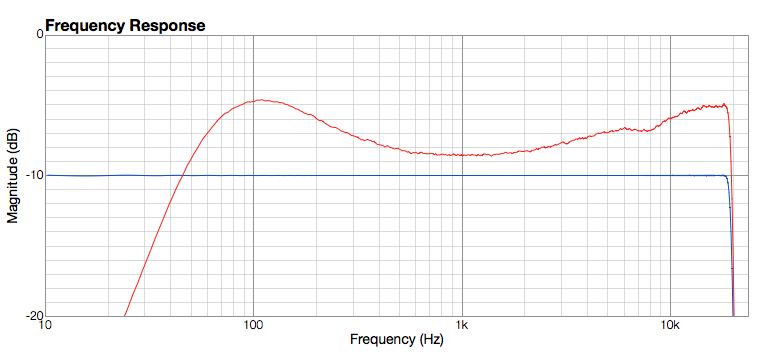
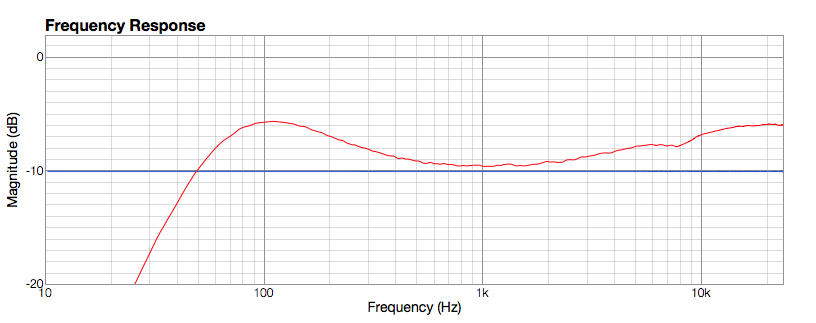
UF95 news, music 의 스펙이 변경되었습니다.

Changed region(s): [[0.0, 0.031, 0.9834, 0.9288], [0.4302, 0.9288, 0.5839, 0.9907], [0.6453, 0.5882, 0.6761, 0.6192]]

diff --git a/WebOS/UF95/2_Sound_Mode/2_Music/Music.tex b/WebOS/UF95/2_Sound_Mode/2_Music/Music.tex
@@ -11,10 +11,10 @@ Audio EQ & \color{black}{Off} & Instart &
 \item Frequency Response Check
 	\begin{itemize}
 	\item 20Hz에서 ref 신호와의 레벨 차이값이 -10.0dBr 이하
-	\item 100Hz에서 ref 신호와의 레벨 차이값이 5.0±1dBr 이내
-	\item 1kHz에서 ref 신호와의 레벨 차이값이 1.5±1dBr 이내
-	\item 5kHz에서 ref 신호와의 레벨 차이값이 3.0±1dBr 이내
-	\item 19kHz에서 ref 신호와의 레벨 차이값이 5.0±1dBr 이내
+	\item 100Hz에서 ref 신호와의 레벨 차이값이 4.0±1dBr 이내
+	\item 1kHz에서 ref 신호와의 레벨 차이값이 0.5±1dBr 이내
+	\item 5kHz에서 ref 신호와의 레벨 차이값이 2.0±1dBr 이내
+	\item 11kHz에서 ref 신호와의 레벨 차이값이 4.0±1dBr 이내
 	\end{itemize}
 \end{itemize}
 } \\

diff --git a/WebOS/UF95/2_Sound_Mode/1_News/News.tex b/WebOS/UF95/2_Sound_Mode/1_News/News.tex
@@ -10,10 +10,10 @@ Audio EQ & \color{black}{Off} & Instart &
 \begin{itemize}
 \item Frequency Response Check
 	\begin{itemize}
-	\item 80Hz에서 ref 신호와의 레벨 차이값이 2.5±1dBr 이내
-	\item 1.3Hz에서 ref 신호와의 레벨 차이값이 6.5±1dBr 이내
-	\item 3kHz에서 ref 신호와의 레벨 차이값이 6.5±1dBr 이내
-	\item 12kHz에서 ref 신호와의 레벨 차이값이 2.5±1dBr 이내
+	\item 80Hz에서 ref 신호와의 레벨 차이값이 0±1dBr 이내
+	\item 1.3kHz에서 ref 신호와의 레벨 차이값이 4.0±1dBr 이내
+	\item 3kHz에서 ref 신호와의 레벨 차이값이 4.0±1dBr 이내
+	\item 11kHz에서 ref 신호와의 레벨 차이값이 0±1dBr 이내
 	\end{itemize}
 \end{itemize}
 } \\
